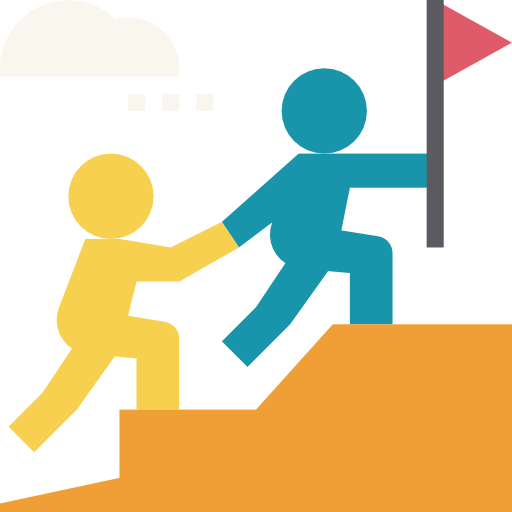
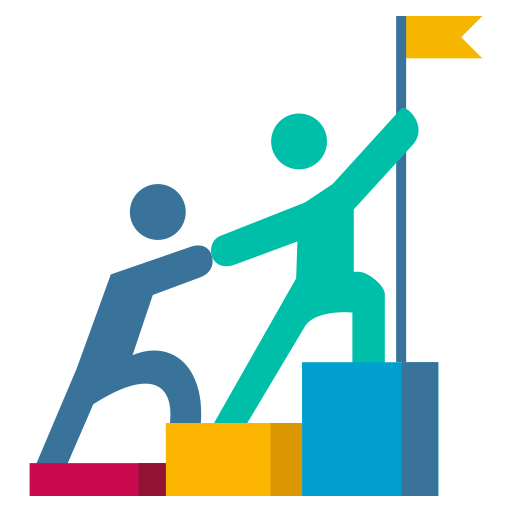
chore: made some modifications on the projects part

diff --git a/index.html b/index.html
@@ -31,16 +31,19 @@
         </div>
     </div>
 
-    <div class="flex-container" id="third_container">
-        <div class="flex-item" style="flex: 3;">
-            <center><p class="title">PROJECTS</p></center>
-        </div>
+
+    <div class="flex-container" id="fourth_container">
+        <center><p class="title">PROJECTS</p></center>
     </div>
 
     <div class="flex-container" id="fourth_container">
-        <div class="flex-item" style="flex: 3;" class="projects">
-            <center><img src="images/game.png" id="game" alt="pic of Jd Estadilla"></center>
-            <center><p class="description">Racing Game made in Java</p></center>
+        <div class="flex-item" class="projects">
+            <img src="images/game.png" id="game" alt="pic of Jd Estadilla">
+            <p class="proj-description">Java Racing Game</p>
+        </div>
+        <div class="flex-item" class="projects">
+            <img src="images/terminal.png" id="game" alt="pic of Jd Estadilla">
+            <p class="proj-description">Python CLI RPG</p>
         </div>
     </div>
 

diff --git a/main.css b/main.css
@@ -35,6 +35,11 @@
     font-family: "Lucida Console", "Courier New", monospace;
 }
 
+.proj-description {
+    font-family: "Lucida Console", "Courier New", monospace;
+    margin-left: 15px;
+}
+
 .footer_description {
     font-family: Arial, Helvetica, sans-serif;
 }
@@ -42,6 +47,10 @@
 .title {
     font-family: "Lucida Console", "Courier New", monospace;
     font-size: 40px;
+}
+
+#fourth_container {
+    justify-content: center;
 }
 
 #sixth_container {
@@ -74,5 +83,6 @@ body {
     background-size: cover;
     background-position: center; 
     background-repeat: no-repeat;
-  }
+}
+
 
